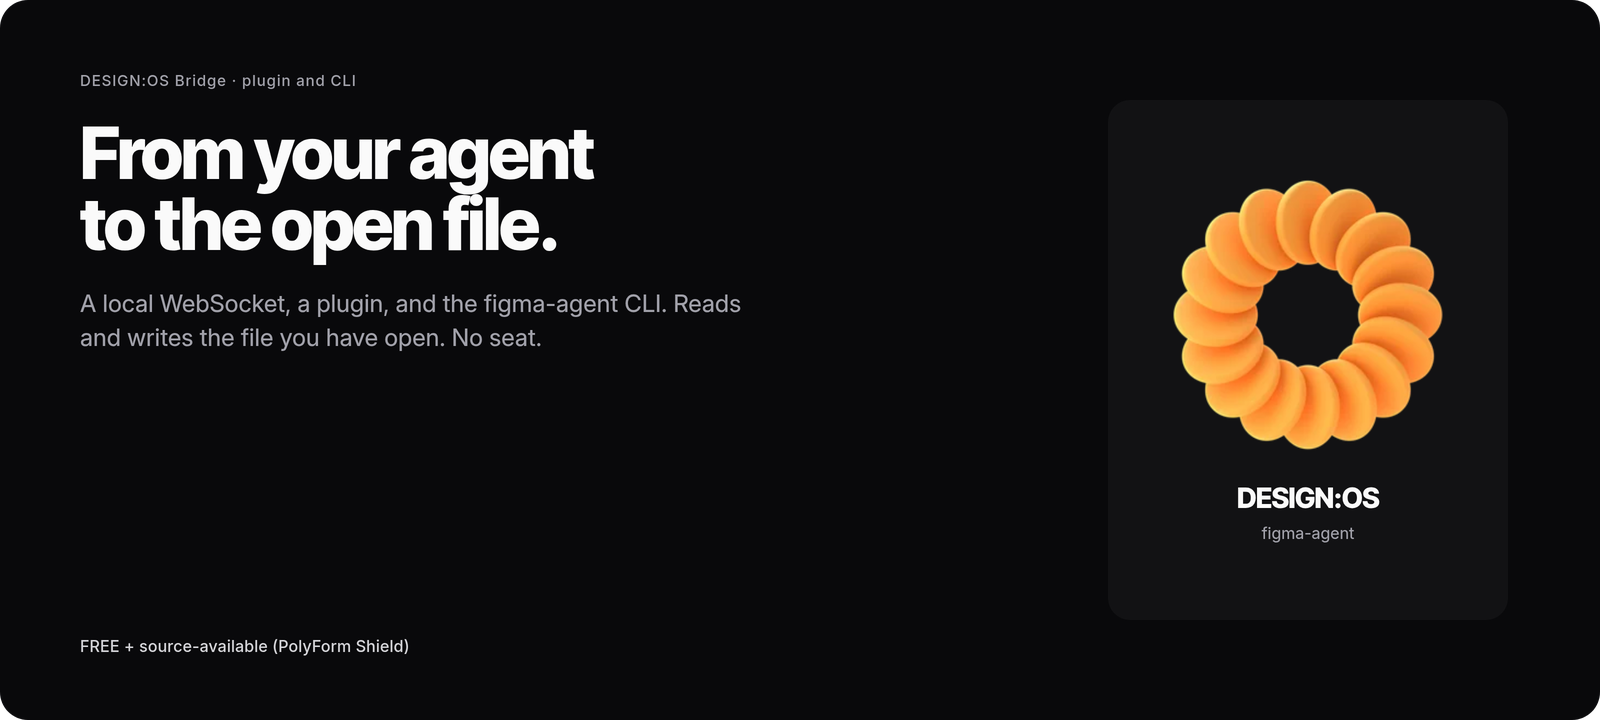
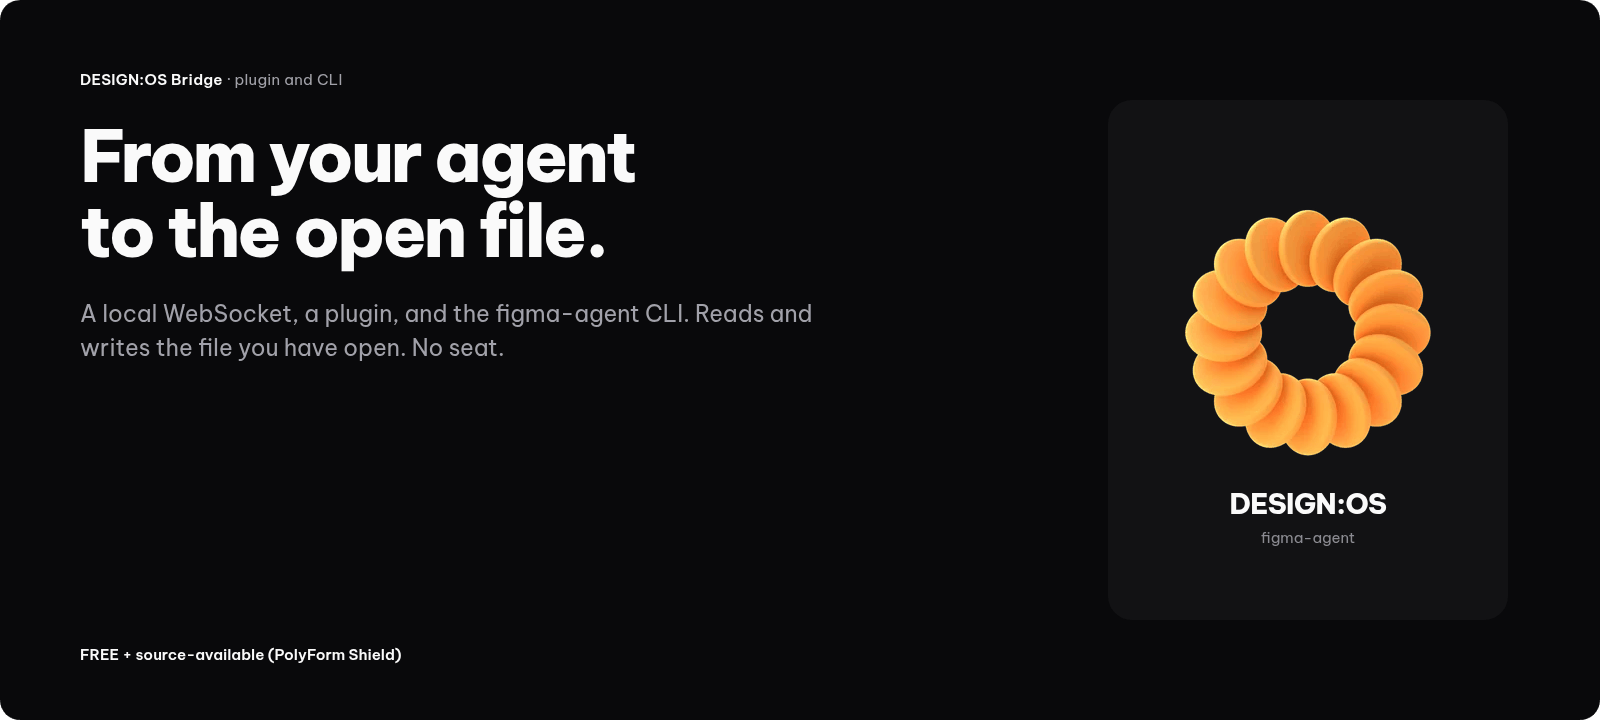
docs: re-render README assets in Be Vietnam Pro

diff --git a/assets/readme/PROVENANCE.md b/assets/readme/PROVENANCE.md
@@ -10,9 +10,9 @@
 ## Covers, flow diagrams, and social preview
 
 - Files: `cover-dark.png`, `cover-light.png`, `flow-dark.png`, `flow-light.png`, `social-preview.png`
-- Made on 2026-11-12 for the README refresh. HTML and Inter / Inter Tight, rendered in Chrome, then scaled to the sizes in the design standard (cover 1600 times 720, flow 1600 times 1000, social 1280 times 640).
+- Made on 2026-11-12 for the README refresh. HTML in Be Vietnam Pro (400, 600, 800), re-rendered on 2026-11-16 to match the DESIGN:OS family font, rendered in Chrome at the sizes in the design standard (cover 1600 times 720, flow 1600 times 1000, social 1280 times 640), then quantised to an indexed palette.
 - Colour: monochrome plus one orange accent `#fca849`. Background `#09090b` (dark) and `#f4f4f5` (light). The clay mark is the only orange form.
 - Alt and caption, where used: exactly `design:os by Jang`.
 - No Figma logo, no third-party kit, no private data, no invented metrics.
-- Cover and flow files are a little over 150 KB because they carry the photographic clay mark at 2x type. Social previews are under 150 KB.
+- Every PNG is under 150 KB.
 
